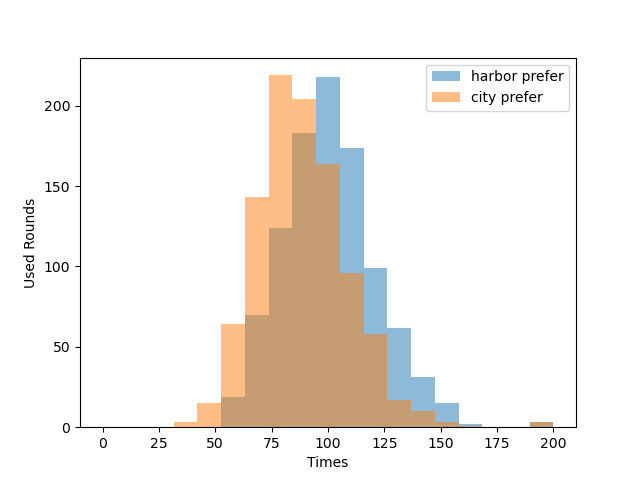
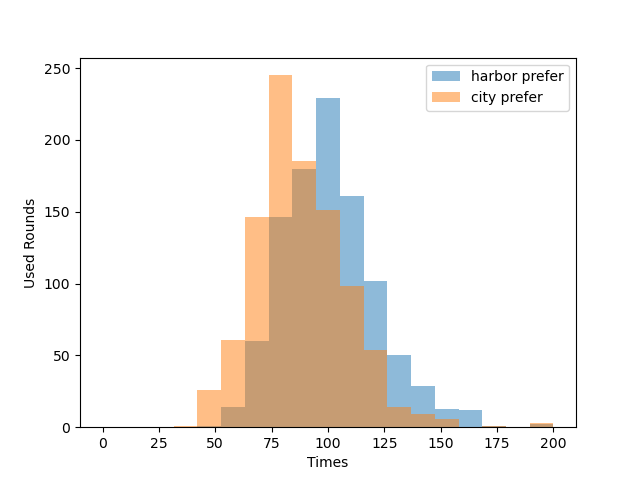
change main simulation

diff --git a/Catan_basic.py b/Catan_basic.py
@@ -728,20 +728,25 @@ def check_game_pass(player, time, vp, epoch, max_round):
     return False
 
 
-def settlement_simulation(player, terrain_dict, point_probability, pp, harbor_point_list, max_round=200, vp=10,
+def simulation_process(player, terrain_dict, point_probability, pp, harbor_point_list, strategy, max_round=200, vp=10,
                           epoch=50):
     """
-    Make a simulation for a settlement based method
+
     :param player:
     :param terrain_dict:
     :param point_probability:
     :param pp:
     :param harbor_point_list:
+    :param strategy_Function: 1 for settlement, 2 for city, 3 for harbor
     :param max_round:
     :param vp:
     :param epoch:
-    :return: Current used : round for player used rounds, max_round if player failed to reach demanding victory point
+    :return:
     """
+    if strategy == 3:
+        dest_harbor_point, dest_path = shortest_harbor_path(player.settlements, player.reachable_points, pp,
+                                                            harbor_point_list)
+
     ## for settlement prefer strategy
     max_round, vp, gamePass = max_round, vp, False
     vp_rec, set_rec, city_rec, road_rec, brick_rec, lum_rec, ore_rec, grain_rec, wool_rec = get_rec_list(player)
@@ -750,87 +755,13 @@ def settlement_simulation(player, terrain_dict, point_probability, pp, harbor_po
         # step 1: get resource
         get_resource(player, terrain_dict)
         # step 2: check for any possible build process
-        settlement_build_prefer(player, terrain_dict, point_probability, pp, harbor_point_list)
-
-        # step 3: store current status into resource recorder for later display
-        vp_rec, set_rec, city_rec, road_rec, brick_rec, lum_rec, ore_rec, grain_rec, wool_rec = get_rec_list(player)
-
-        # step 4: check if player wins, if so, display and return all results
-        gamePass = check_game_pass(player, time, vp, epoch, max_round)
-        if gamePass:
-            used_round = time
-            break
-
-    return used_round, gamePass, vp_rec, set_rec, city_rec, road_rec, brick_rec, lum_rec, ore_rec, grain_rec, wool_rec
-
-
-def city_simulation(player, terrain_dict, point_probability, pp, harbor_point_list, max_round=200, vp=10,
-                    epoch=50):
-    """
-    Make a simulation for a city prefered method
-    :param player:
-    :param terrain_dict:
-    :param point_probability:
-    :param pp:
-    :param harbor_point_list:
-    :param max_round:
-    :param vp:
-    :param epoch:
-    :return: Current used : round for player used rounds, max_round if player failed to reach demanding victory point
-    """
-    ## for settlement prefer strategy
-    max_round, vp, gamePass = max_round, vp, False
-    vp_rec, set_rec, city_rec, road_rec, brick_rec, lum_rec, ore_rec, grain_rec, wool_rec = get_rec_list(player)
-    used_round = max_round
-
-    for time in range(max_round):
-        # step 1: get resource
-        get_resource(player, terrain_dict)
-        # step 2: check for any possible build process
-        city_upgrade_prefer(player, terrain_dict, point_probability, pp, harbor_point_list)
-
-        # step 3: store current status into resource recorder for later display
-        vp_rec, set_rec, city_rec, road_rec, brick_rec, lum_rec, ore_rec, grain_rec, wool_rec = get_rec_list(player)
-
-        # step 4: check if player wins, if so, display and return all results
-        gamePass = check_game_pass(player, time, vp, epoch, max_round)
-        if gamePass:
-            used_round = time
-            break
-
-    return used_round, gamePass, vp_rec, set_rec, city_rec, road_rec, brick_rec, lum_rec, ore_rec, grain_rec, wool_rec
-
-
-def harbor_simulation(player, terrain_dict, point_probability, pp, harbor_point_list, max_round=200, vp=10,
-                      epoch=50):
-    """
-    Make a simulation for a harbor based method
-    Player would use resources to build a settlement at a harbor point as first priority, after getting a harbor, do as
-        settlement prefer methods
-    :param player:
-    :param terrain_dict:
-    :param point_probability:
-    :param pp:
-    :param harbor_point_list:
-    :param max_round:
-    :param vp:
-    :param epoch:
-    :return: Current used : round for player used rounds, max_round if player failed to reach demanding victory point
-    """
-    ## for settlement prefer strategy
-    dest_harbor_point, dest_path = shortest_harbor_path(player.settlements, player.reachable_points, pp,
-                                                        harbor_point_list)
-
-    max_round, vp, gamePass = max_round, vp, False
-    vp_rec, set_rec, city_rec, road_rec, brick_rec, lum_rec, ore_rec, grain_rec, wool_rec = get_rec_list(player)
-    used_round = max_round
-    for time in range(max_round):
-        # step 1: get resource
-        get_resource(player, terrain_dict)
-        # step 2: check for any possible build process
-        harbor_build_prefer(player, terrain_dict, point_probability, pp, harbor_point_list, dest_path,
-                            dest_harbor_point)
-
+        if strategy == 1:
+            settlement_build_prefer(player, terrain_dict, point_probability, pp, harbor_point_list)
+        elif strategy == 2:
+            city_upgrade_prefer(player, terrain_dict, point_probability, pp, harbor_point_list)
+        elif strategy == 3:
+            harbor_build_prefer(player, terrain_dict, point_probability, pp, harbor_point_list, dest_path,
+                                dest_harbor_point)
         # step 3: store current status into resource recorder for later display
         vp_rec, set_rec, city_rec, road_rec, brick_rec, lum_rec, ore_rec, grain_rec, wool_rec = get_rec_list(player)
 
@@ -993,6 +924,7 @@ if __name__ == '__main__':
     simulation_times, max_round, vp, epoch = 1000, 200, 10, 50
     val1 = []
     val2 = []
+    val3 = []
 
     for i in range(simulation_times):
         # cereate a new board
@@ -1006,43 +938,22 @@ if __name__ == '__main__':
                                    point_probability)
         player2 = player_generater(point_probability_sort_list, pp, point_terrain_dict, idx_terrain_dict,
                                    point_probability)
+        player3 = player_generater(point_probability_sort_list, pp, point_terrain_dict, idx_terrain_dict,
+                                   point_probability)
 
-        times1, game_pass, vp_rec, set_rec, city_rec, road_rec, brick_rec, lum_rec, ore_rec, grain_rec, wool_rec = settlement_simulation(
-            player1, terrain_dict, point_probability, pp, harbor_point_list, max_round=max_round, vp=vp, epoch=epoch)
+        times1, game_pass, vp_rec, set_rec, city_rec, road_rec, brick_rec, lum_rec, ore_rec, grain_rec, wool_rec = simulation_process(
+            player1, terrain_dict, point_probability, pp, harbor_point_list, 1, max_round=max_round, vp=vp, epoch=epoch)
         times2, game_pass, vp_rec, set_rec, city_rec, road_rec, brick_rec, lum_rec, ore_rec, grain_rec, wool_rec \
-            = city_simulation(player2, terrain_dict, point_probability, pp, harbor_point_list, max_round=max_round,
+            = simulation_process(player2, terrain_dict, point_probability, pp, harbor_point_list, 2, max_round=max_round,
                               vp=vp, epoch=epoch)
+        times3, game_pass, vp_rec, set_rec, city_rec, road_rec, brick_rec, lum_rec, ore_rec, grain_rec, wool_rec \
+            = simulation_process(player3, terrain_dict, point_probability, pp, harbor_point_list, 3,
+                                 max_round=max_round,
+                                 vp=vp, epoch=epoch)
 
         val1.append(times1)
         val2.append(times2)
+        val3.append(times3)
 
     vis_two_round(val1, val2, "settlement prefer", "city prefer", 1, simulation_times=simulation_times)
-
-    # hypothesis 2 simulation:
-    # simulation_times, max_round, vp, epoch = 1000, 200, 10, 50
-    val1 = []
-    val2 = []
-
-    for i in range(simulation_times):
-        harbor_point_list = list(set([sub_li[0] for sub_li in ph]))
-        terrain_type_list = get_terrain_resource()
-        terrain_number_list = get_roll_num_list(terrain_type_list)
-        idx_terrain_dict, terrain_dict = generate_terrain_dict(terrain_type_list, terrain_number_list, tp)
-        point_terrain_dict, point_probability, point_probability_sort_list = point_terrain_creator(tp, idx_terrain_dict)
-
-        player1 = player_generater(point_probability_sort_list, pp, point_terrain_dict, idx_terrain_dict,
-                                   point_probability)
-        player2 = player_generater(point_probability_sort_list, pp, point_terrain_dict, idx_terrain_dict,
-                                   point_probability)
-
-        times1, game_pass, vp_rec, set_rec, city_rec, road_rec, brick_rec, lum_rec, ore_rec, grain_rec, wool_rec = harbor_simulation(
-            player1, terrain_dict, point_probability, pp, harbor_point_list, max_round=max_round, vp=vp, epoch=epoch)
-        times2, game_pass, vp_rec, set_rec, city_rec, road_rec, brick_rec, lum_rec, ore_rec, grain_rec, wool_rec \
-            = city_simulation(player2, terrain_dict, point_probability, pp, harbor_point_list, max_round=max_round,
-                              vp=vp,
-                              epoch=epoch)
-
-        val1.append(times1)
-        val2.append(times2)
-
-    vis_two_round(val1, val2, "harbor prefer", "city prefer", 2, simulation_times=simulation_times)
+    vis_two_round(val3, val2, "harbor prefer", "city prefer", 2, simulation_times=simulation_times)
